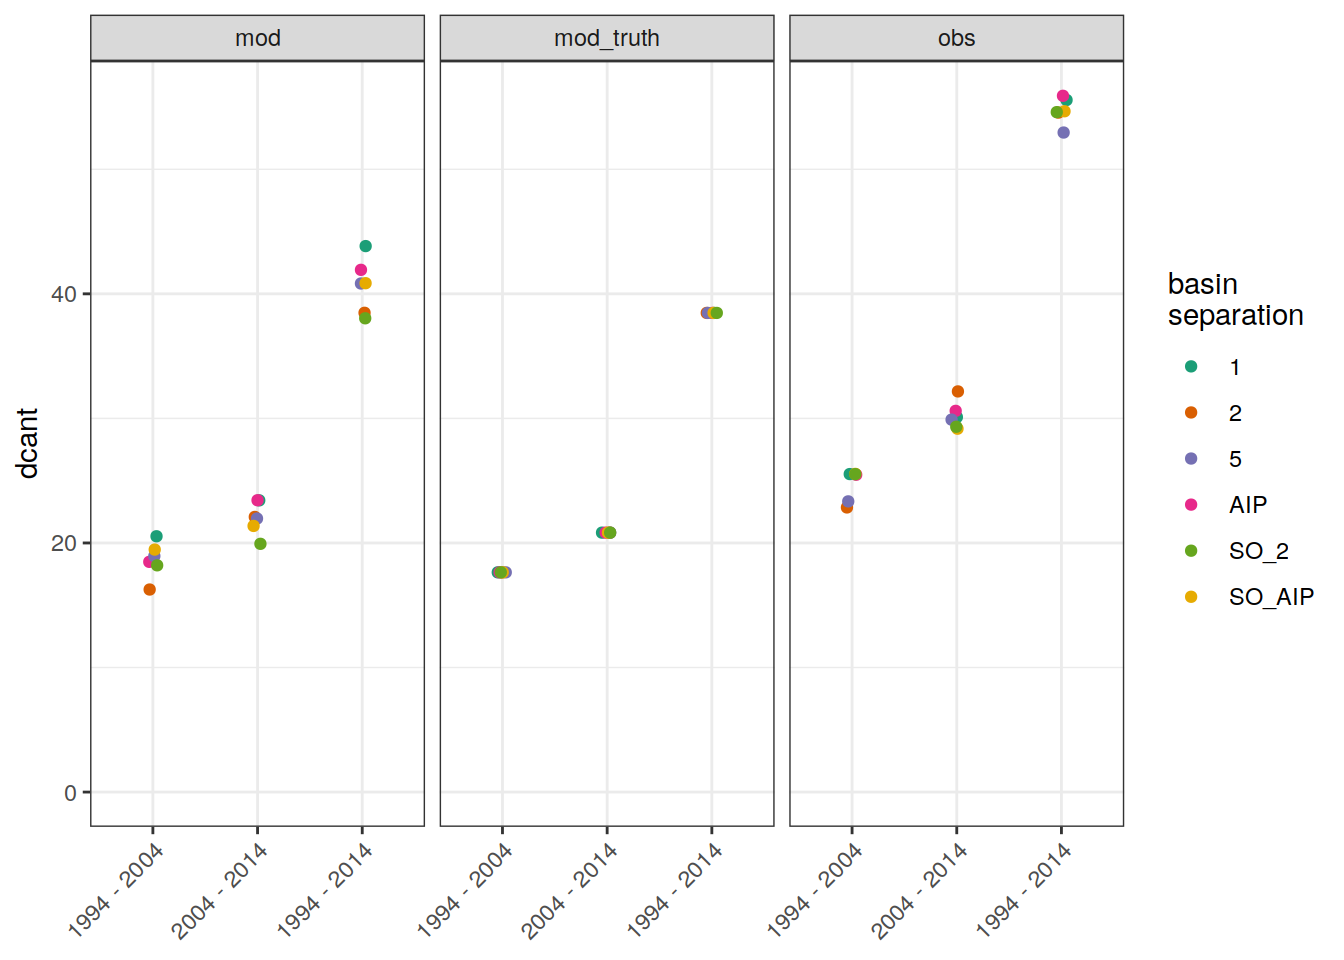
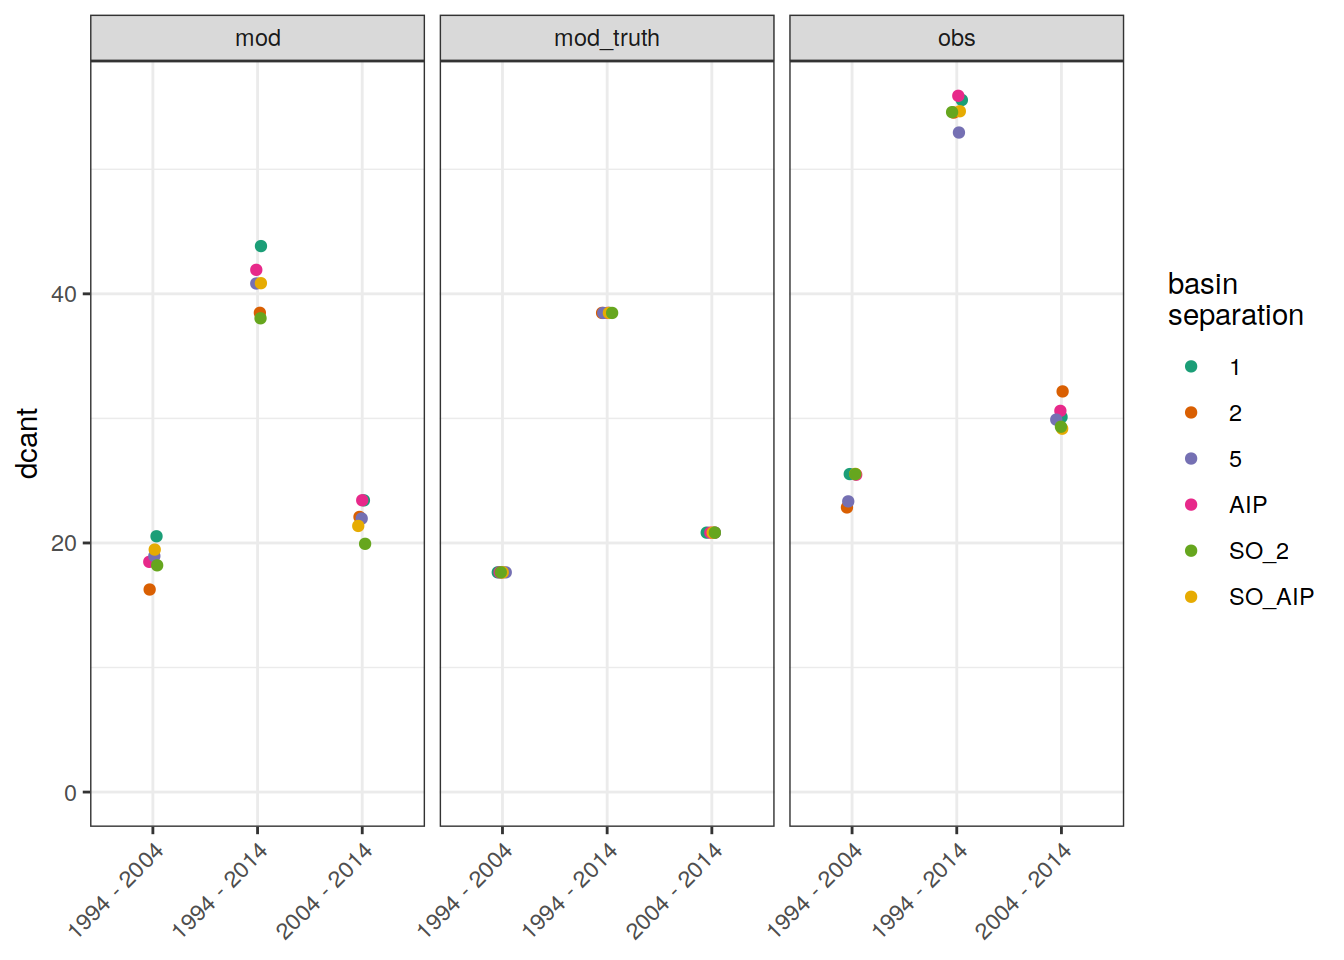
Build site.

diff --git a/docs/classic_budgets.html b/docs/classic_budgets.html
@@ -729,16 +729,16 @@ This reproducible <a href="http://rmarkdown.rstudio.com">R Markdown</a> analysis
 <div class="panel panel-default">
 <div class="panel-heading">
 <p class="panel-title">
-<a data-toggle="collapse" data-parent="#workflowr-checks" href="#strongRepositoryversionstrongahrefhttpsgithubcomjensdanielmuelleremlrobsanalysistree218bf79e0ffaa0deb559816c0b3a2d7f13af5104targetblank218bf79a"> <span class="glyphicon glyphicon-ok text-success" aria-hidden="true"></span> <strong>Repository version:</strong> <a href="https://github.com/jens-daniel-mueller/emlr_obs_analysis/tree/218bf79e0ffaa0deb559816c0b3a2d7f13af5104" target="_blank">218bf79</a> </a>
+<a data-toggle="collapse" data-parent="#workflowr-checks" href="#strongRepositoryversionstrongahrefhttpsgithubcomjensdanielmuelleremlrobsanalysistreee2707c111f01c7e95897c4c1c06da944133d417etargetblanke2707c1a"> <span class="glyphicon glyphicon-ok text-success" aria-hidden="true"></span> <strong>Repository version:</strong> <a href="https://github.com/jens-daniel-mueller/emlr_obs_analysis/tree/e2707c111f01c7e95897c4c1c06da944133d417e" target="_blank">e2707c1</a> </a>
 </p>
 </div>
[2 lines of base64/hex data omitted]
 <div class="panel-body">
 <p>
 Great! You are using Git for version control. Tracking code development and connecting the code version to the results is critical for reproducibility.
 </p>
 <p>
-The results in this page were generated with repository version <a href="https://github.com/jens-daniel-mueller/emlr_obs_analysis/tree/218bf79e0ffaa0deb559816c0b3a2d7f13af5104" target="_blank">218bf79</a>. See the <em>Past versions</em> tab to see a history of the changes made to the R Markdown and HTML files.
+The results in this page were generated with repository version <a href="https://github.com/jens-daniel-mueller/emlr_obs_analysis/tree/e2707c111f01c7e95897c4c1c06da944133d417e" target="_blank">e2707c1</a>. See the <em>Past versions</em> tab to see a history of the changes made to the R Markdown and HTML files.
 </p>
 <p>
 Note that you need to be careful to ensure that all relevant files for the analysis have been committed to Git prior to generating the results (you can use <code>wflow_publish</code> or <code>wflow_git_commit</code>). workflowr only checks the R Markdown file, but you know if there are other scripts or data files that it depends on. Below is the status of the Git repository when the results were generated:
@@ -797,6 +797,23 @@ Message
 </tr>
 </thead>
 <tbody>
+<tr>
+<td>
+html
+</td>
+<td>
+<a href="https://rawcdn.githack.com/jens-daniel-mueller/emlr_obs_analysis/e2707c111f01c7e95897c4c1c06da944133d417e/docs/classic_budgets.html" target="_blank">e2707c1</a>
+</td>
+<td>
+jens-daniel-mueller
+</td>
+<td>
+2022-01-06
+</td>
+<td>
+Build site.
+</td>
+</tr>
 <tr>
 <td>
 html
@@ -2190,12 +2207,8 @@ global_bias_rel_max</code></pre>
 regional_bias_rel_max</code></pre>
 <pre><code>[1] 30</code></pre>
 </div>
-<div id="basins" class="section level1" number="2">
-<h1><span class="header-section-number">2</span> Basins</h1>
-<pre class="r"><code>MLR_basins_in &lt;- c(&quot;1&quot;, &quot;2&quot;, &quot;AIP&quot;, &quot;5&quot;, &quot;SO_2&quot;, &quot;SO_AIP&quot;, &quot;SO&quot;)</code></pre>
-</div>
-<div id="read-files" class="section level1" number="3">
-<h1><span class="header-section-number">3</span> Read files</h1>
+<div id="read-files" class="section level1" number="2">
+<h1><span class="header-section-number">2</span> Read files</h1>
 <pre class="r"><code># identify required version IDs
 
 Version_IDs_1 &lt;- list.files(path = &quot;/nfs/kryo/work/jenmueller/emlr_cant/observations&quot;,
@@ -2213,8 +2226,8 @@ print(Version_IDs)</code></pre>
 <pre><code> [1] &quot;v_1001&quot; &quot;v_1002&quot; &quot;v_1003&quot; &quot;v_1004&quot; &quot;v_1005&quot; &quot;v_1006&quot; &quot;v_2001&quot; &quot;v_2002&quot;
  [9] &quot;v_2003&quot; &quot;v_2004&quot; &quot;v_2005&quot; &quot;v_2006&quot; &quot;v_3001&quot; &quot;v_3002&quot; &quot;v_3003&quot; &quot;v_3004&quot;
 [17] &quot;v_3005&quot; &quot;v_3006&quot;</code></pre>
-<div id="global" class="section level2" number="3.1">
-<h2><span class="header-section-number">3.1</span> Global</h2>
+<div id="global" class="section level2" number="2.1">
+<h2><span class="header-section-number">2.1</span> Global</h2>
 <pre class="r"><code>for (i_Version_IDs in Version_IDs) {
   # i_Version_IDs &lt;- Version_IDs[1]
   
@@ -2324,11 +2337,7 @@ print(Version_IDs)</code></pre>
 [1] &quot;v_3004&quot;
 [1] &quot;v_3005&quot;
 [1] &quot;v_3006&quot;</code></pre>
-<pre class="r"><code>params_local_all &lt;-
-  params_local_all %&gt;%
-  mutate(period = factor(period, c(&quot;1994 - 2004&quot;, &quot;2004 - 2014&quot;, &quot;1994 - 2014&quot;)))
-
-rm(
+<pre class="r"><code>rm(
   dcant_budget_global,
   dcant_budget_global_bias,
   dcant_budget_global_mod_truth,
@@ -2361,14 +2370,9 @@ dcant_budget_global_bias_all_depth &lt;- dcant_budget_global_bias_all
 
 dcant_budget_global_bias_all &lt;- dcant_budget_global_bias_all %&gt;%
   filter(inv_depth == params_global$inventory_depth_standard)</code></pre>
-<pre class="r"><code>dcant_budget_global_all &lt;- dcant_budget_global_all %&gt;% 
-  filter(MLR_basins %in% MLR_basins_in)
-
-dcant_budget_global_bias_all &lt;- dcant_budget_global_bias_all  %&gt;% 
-  filter(MLR_basins %in% MLR_basins_in)</code></pre>
 </div>
-<div id="regional" class="section level2" number="3.2">
-<h2><span class="header-section-number">3.2</span> Regional</h2>
+<div id="regional" class="section level2" number="2.2">
+<h2><span class="header-section-number">2.2</span> Regional</h2>
 <pre class="r"><code># Version_IDs &lt;- Version_IDs[1:length(Version_IDs)-1]
 
 for (i_Version_IDs in Version_IDs) {
@@ -2522,20 +2526,9 @@ dcant_budget_basin_AIP_bias_all_depth &lt;- dcant_budget_basin_AIP_bias_all
 
 dcant_budget_basin_AIP_bias_all &lt;- dcant_budget_basin_AIP_bias_all %&gt;%
   filter(inv_depth == params_global$inventory_depth_standard)</code></pre>
-<pre class="r"><code>dcant_budget_basin_AIP_all &lt;- dcant_budget_basin_AIP_all %&gt;% 
-  filter(MLR_basins %in% MLR_basins_in)
-
-dcant_budget_basin_AIP_bias_all &lt;- dcant_budget_basin_AIP_bias_all  %&gt;% 
-  filter(MLR_basins %in% MLR_basins_in)
-
-dcant_slab_budget_all &lt;- dcant_slab_budget_all %&gt;% 
-  filter(MLR_basins %in% MLR_basins_in)
-
-dcant_slab_budget_bias_all &lt;- dcant_slab_budget_bias_all  %&gt;% 
-  filter(MLR_basins %in% MLR_basins_in)</code></pre>
 </div>
-<div id="steady-state" class="section level2" number="3.3">
-<h2><span class="header-section-number">3.3</span> Steady state</h2>
+<div id="steady-state" class="section level2" number="2.3">
+<h2><span class="header-section-number">2.3</span> Steady state</h2>
 <pre class="r"><code>for (i_Version_IDs in Version_IDs) {
   # i_Version_IDs &lt;- Version_IDs[1]
   
@@ -2589,20 +2582,20 @@ dcant_slab_budget_bias_all &lt;- dcant_slab_budget_bias_all  %&gt;%
 dcant_obs_budget_all &lt;- full_join(dcant_obs_budget_all,
                              params_local_all)</code></pre>
 </div>
-<div id="atm-co2" class="section level2" number="3.4">
-<h2><span class="header-section-number">3.4</span> Atm CO2</h2>
+<div id="atm-co2" class="section level2" number="2.4">
+<h2><span class="header-section-number">2.4</span> Atm CO2</h2>
 <pre class="r"><code>co2_atm &lt;-
   read_csv(paste(path_preprocessing,
                  &quot;co2_atm.csv&quot;,
                  sep = &quot;&quot;))</code></pre>
 </div>
 </div>
-<div id="global-1" class="section level1" number="4">
-<h1><span class="header-section-number">4</span> Global</h1>
-<div id="individual-cases" class="section level2" number="4.1">
-<h2><span class="header-section-number">4.1</span> Individual cases</h2>
-<div id="absoulte-values" class="section level3" number="4.1.1">
-<h3><span class="header-section-number">4.1.1</span> Absoulte values</h3>
+<div id="global-1" class="section level1" number="3">
+<h1><span class="header-section-number">3</span> Global</h1>
+<div id="individual-cases" class="section level2" number="3.1">
+<h2><span class="header-section-number">3.1</span> Individual cases</h2>
+<div id="absoulte-values" class="section level3" number="3.1.1">
+<h3><span class="header-section-number">3.1.1</span> Absoulte values</h3>
 <pre class="r"><code>legend_title = expression(atop(Delta * C[ant],
                                (mu * mol ~ kg ^ {
                                  -1
